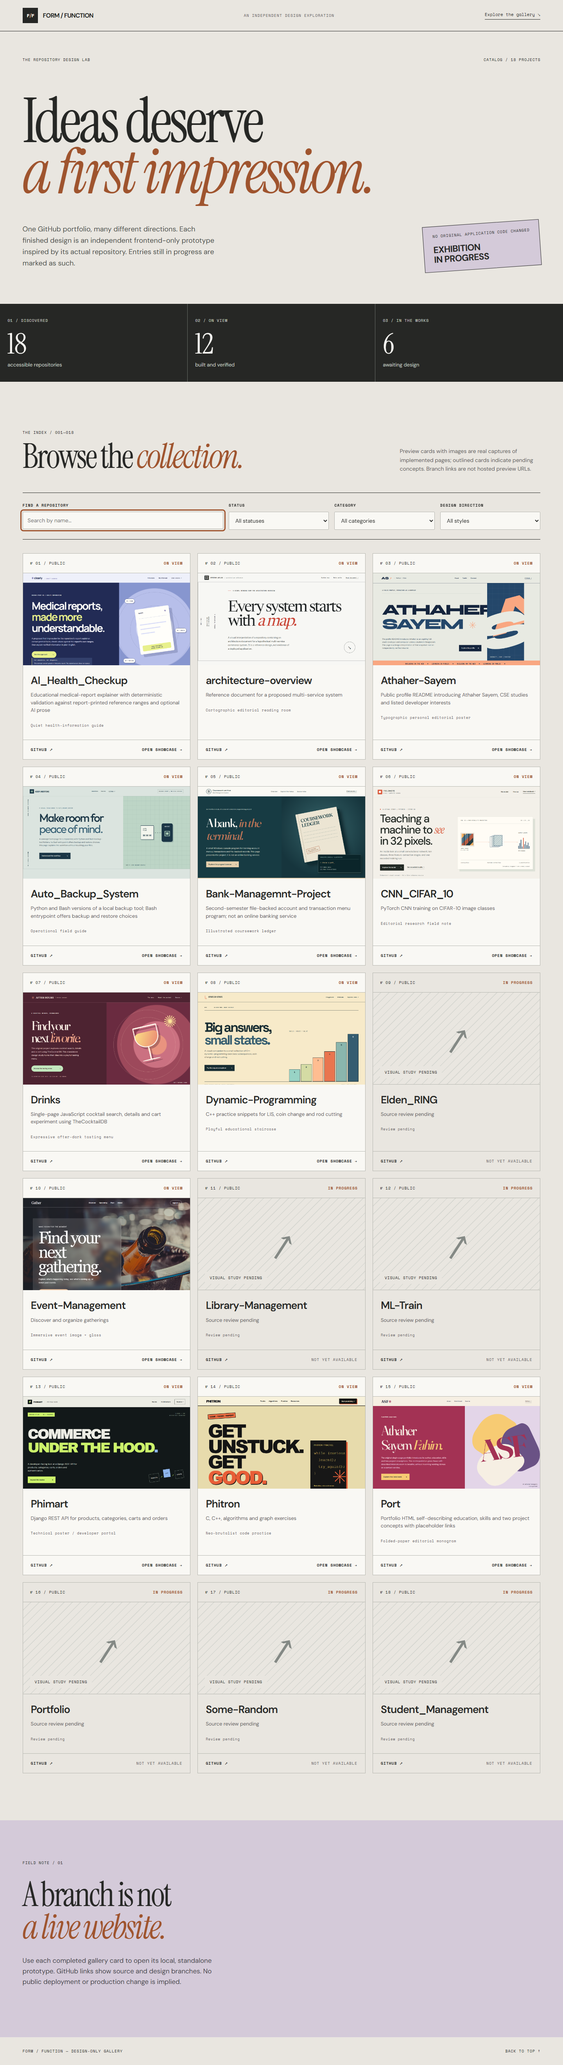
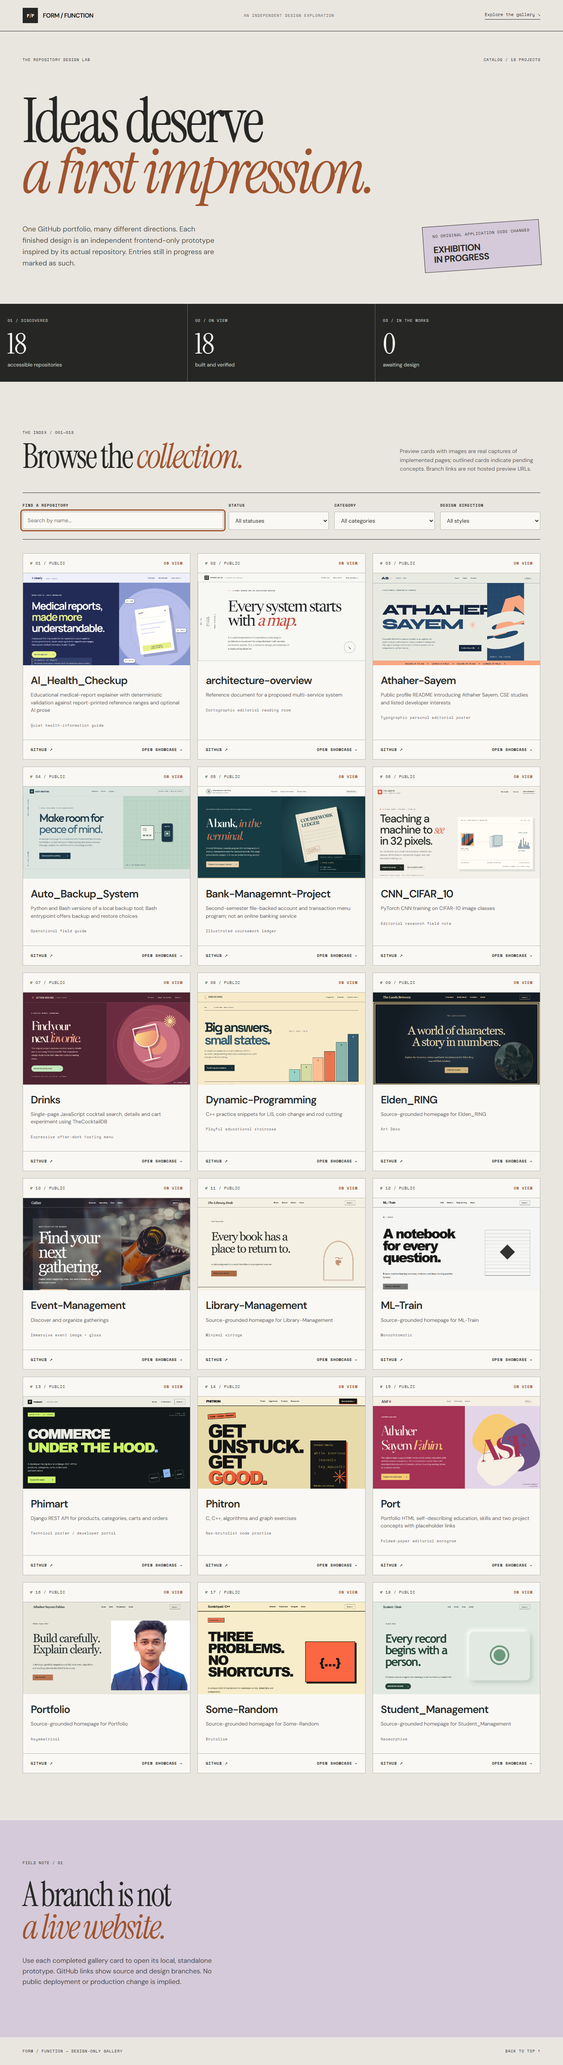
feat: complete remaining source-grounded homepages

diff --git a/showcase-design/data.js b/showcase-design/data.js
@@ -131,17 +131,17 @@ window.SHOWCASE_PROJECTS = [
     "name": "Elden_RING",
     "url": "https://github.com/Athaher-Sayem/Elden_RING",
     "visibility": "public",
-    "category": "Review pending",
-    "purpose": "Source review pending",
-    "style": null,
-    "palette": null,
-    "fonts": null,
-    "status": "pending",
-    "showcasePath": null,
-    "screenshot": null,
-    "branchUrl": null,
-    "commitUrl": null,
-    "limitation": null
+    "category": "Fantasy character database",
+    "purpose": "Explore the characters, reviews and battle simulations in this Elden Ring-inspired Flask database.",
+    "style": "Art Deco",
+    "palette": "#141c23 / #ecd9b2 / #ceb27d",
+    "fonts": "Georgia,serif",
+    "status": "completed",
+    "showcasePath": "showcases/Elden_RING/index.html",
+    "screenshot": "showcases/Elden_RING/assets/screenshots/desktop.png",
+    "branchUrl": "https://github.com/Athaher-Sayem/Elden_RING/tree/Shocase_design",
+    "commitUrl": "https://github.com/Athaher-Sayem/Elden_RING/commit/8a21c4bd4a39588c20230a1ca2b6b0415d5edee3",
+    "limitation": "Independent static design; source-linked actions require the running original project."
   },
   {
     "name": "Event-Management",
@@ -163,33 +163,33 @@ window.SHOWCASE_PROJECTS = [
     "name": "Library-Management",
     "url": "https://github.com/Athaher-Sayem/Library-Management",
     "visibility": "public",
-    "category": "Review pending",
-    "purpose": "Source review pending",
-    "style": null,
-    "palette": null,
-    "fonts": null,
-    "status": "pending",
-    "showcasePath": null,
-    "screenshot": null,
-    "branchUrl": null,
-    "commitUrl": null,
-    "limitation": null
+    "category": "Java console library",
+    "purpose": "A welcoming entry to a small Java library-management exercise.",
+    "style": "Minimal vintage",
+    "palette": "#f4f0e4 / #272a25 / #aa6b44",
+    "fonts": "Georgia,serif",
+    "status": "completed",
+    "showcasePath": "showcases/Library-Management/index.html",
+    "screenshot": "showcases/Library-Management/assets/screenshots/desktop.png",
+    "branchUrl": "https://github.com/Athaher-Sayem/Library-Management/tree/Shocase_design",
+    "commitUrl": "https://github.com/Athaher-Sayem/Library-Management/commit/aaef22481d9d72f20bb32687d105f87070173fb6",
+    "limitation": "Independent static design; source-linked actions require the running original project."
   },
   {
     "name": "ML-Train",
     "url": "https://github.com/Athaher-Sayem/ML-Train",
     "visibility": "public",
-    "category": "Review pending",
-    "purpose": "Source review pending",
-    "style": null,
-    "palette": null,
-    "fonts": null,
-    "status": "pending",
-    "showcasePath": null,
-    "screenshot": null,
-    "branchUrl": null,
-    "commitUrl": null,
-    "limitation": null
+    "category": "Machine-learning notebooks",
+    "purpose": "Browse machine-learning exercises, midterms and deep-learning practice by topic.",
+    "style": "Monochromatic",
+    "palette": "#f5f5f3 / #171817 / #737574",
+    "fonts": "Arial,sans-serif",
+    "status": "completed",
+    "showcasePath": "showcases/ML-Train/index.html",
+    "screenshot": "showcases/ML-Train/assets/screenshots/desktop.png",
+    "branchUrl": "https://github.com/Athaher-Sayem/ML-Train/tree/Shocase_design",
+    "commitUrl": "https://github.com/Athaher-Sayem/ML-Train/commit/dca03078a6eab1838275724848a47eba0cc58773",
+    "limitation": "Independent static design; source-linked actions require the running original project."
   },
   {
     "name": "Phimart",
@@ -243,48 +243,48 @@ window.SHOWCASE_PROJECTS = [
     "name": "Portfolio",
     "url": "https://github.com/Athaher-Sayem/Portfolio",
     "visibility": "public",
-    "category": "Review pending",
-    "purpose": "Source review pending",
-    "style": null,
-    "palette": null,
-    "fonts": null,
-    "status": "pending",
-    "showcasePath": null,
-    "screenshot": null,
-    "branchUrl": null,
-    "commitUrl": null,
-    "limitation": null
+    "category": "Developer portfolio",
+    "purpose": "A developer portfolio shaped around full-stack work, algorithms and teaching interests described in its source.",
+    "style": "Asymmetrical",
+    "palette": "#e8e6db / #242e2c / #b67450",
+    "fonts": "Georgia,serif",
+    "status": "completed",
+    "showcasePath": "showcases/Portfolio/index.html",
+    "screenshot": "showcases/Portfolio/assets/screenshots/desktop.png",
+    "branchUrl": "https://github.com/Athaher-Sayem/Portfolio/tree/Shocase_design",
+    "commitUrl": "https://github.com/Athaher-Sayem/Portfolio/commit/41316c912403c6e1e4eb690908d32d6df9814348",
+    "limitation": "Independent static design; source-linked actions require the running original project."
   },
   {
     "name": "Some-Random",
     "url": "https://github.com/Athaher-Sayem/Some-Random",
     "visibility": "public",
-    "category": "Review pending",
-    "purpose": "Source review pending",
-    "style": null,
-    "palette": null,
-    "fonts": null,
-    "status": "pending",
-    "showcasePath": null,
-    "screenshot": null,
-    "branchUrl": null,
-    "commitUrl": null,
-    "limitation": null
+    "category": "C++ practice snippets",
+    "purpose": "A compact shelf of standalone C++ exercises on lists, linked lists and comparisons.",
+    "style": "Brutalism",
+    "palette": "#f7edca / #161713 / #fa6742",
+    "fonts": "Arial,sans-serif",
+    "status": "completed",
+    "showcasePath": "showcases/Some-Random/index.html",
+    "screenshot": "showcases/Some-Random/assets/screenshots/desktop.png",
+    "branchUrl": "https://github.com/Athaher-Sayem/Some-Random/tree/Shocase_design",
+    "commitUrl": "https://github.com/Athaher-Sayem/Some-Random/commit/c9cf5291102f0aeddf65fa52432ac54420cf8c57",
+    "limitation": "Independent static design; source-linked actions require the running original project."
   },
   {
     "name": "Student_Management",
     "url": "https://github.com/Athaher-Sayem/Student_Management",
     "visibility": "public",
-    "category": "Review pending",
-    "purpose": "Source review pending",
-    "style": null,
-    "palette": null,
-    "fonts": null,
-    "status": "pending",
-    "showcasePath": null,
-    "screenshot": null,
-    "branchUrl": null,
-    "commitUrl": null,
-    "limitation": null
+    "category": "Python student console",
+    "purpose": "A Python console program for keeping a small in-memory student list.",
+    "style": "Neomorphism",
+    "palette": "#e2e9e2 / #254438 / #cce3d0",
+    "fonts": "Trebuchet MS,Arial,sans-serif",
+    "status": "completed",
+    "showcasePath": "showcases/Student_Management/index.html",
+    "screenshot": "showcases/Student_Management/assets/screenshots/desktop.png",
+    "branchUrl": "https://github.com/Athaher-Sayem/Student_Management/tree/Shocase_design",
+    "commitUrl": "https://github.com/Athaher-Sayem/Student_Management/commit/dce4900484b13266a1ed88aca84263bb4adaae9f",
+    "limitation": "Independent static design; source-linked actions require the running original project."
   }
 ];

diff --git a/showcase-design/showcases/Some-Random/styles.css b/showcase-design/showcases/Some-Random/styles.css
@@ -1,0 +1,5 @@
+:root{--bg:#f7edca;--ink:#161713;--accent:#fa6742;--surface:#fff9e5;--paper:#fff9e5;--font:Arial,sans-serif}
+*{box-sizing:border-box}html{scroll-behavior:smooth}body{margin:0;background:var(--bg);color:var(--ink);font-family:var(--font)}a{color:inherit}a:focus-visible,summary:focus-visible{outline:3px solid #ef8946;outline-offset:4px}img{max-width:100%}h1,h2,h3{overflow-wrap:break-word}p{line-height:1.7}.skip{position:absolute;left:15px;top:-100px;padding:12px;background:#fff;color:#111;z-index:10}.skip:focus{top:10px}.mast{display:flex;align-items:center;justify-content:space-between;gap:25px;padding:14px 6%;min-height:80px}.mast a{text-decoration:none}.brand{font-size:1.65rem;font-weight:700;letter-spacing:-.06em}.mast nav{display:flex;gap:clamp(15px,2vw,30px);font:600 .85rem Arial,sans-serif}.mast nav a:hover{text-decoration:underline;text-underline-offset:5px}.mast .top-action{border:1px solid currentColor;padding:10px 15px;white-space:nowrap;font:700 .8rem Arial,sans-serif}.intro-tag{font:700 .8rem Arial,sans-serif;opacity:.85}.hero-copy>p{font-size:1.15rem;max-width:38rem}.cta{display:inline-flex;gap:35px;padding:15px 20px;background:var(--accent);color:var(--ink);font:700 .9rem Arial,sans-serif;text-decoration:none;margin-top:20px}.topics a{color:inherit;text-decoration:none}.topics a:hover h3{text-decoration:underline;text-underline-offset:6px}.topics h3{line-height:1.1}.topics a p{max-width:32rem}.topics a span{font:700 .8rem Arial,sans-serif}.feature{padding:95px 6%}.feature h2{margin:0 0 30px}.feature p{line-height:1.8}.source{padding:80px 6%;background:var(--surface);color:var(--ink)}.source h2{font-size:clamp(2.4rem,4vw,4.3rem);margin:0 0 25px}.source p{max-width:45rem}.source a{display:inline-block;margin:20px 15px 0 0;color:inherit}.footer{background:#1e2425;color:#f5f5f0;padding:28px 6%;font:13px/1.6 Arial,sans-serif;display:flex;justify-content:space-between;gap:20px;flex-wrap:wrap}.footer a{color:inherit}@media(max-width:750px){.mast{flex-wrap:wrap;min-height:100px;padding:15px 5%;gap:10px}.mast nav{order:3;width:100%;overflow-x:auto;white-space:nowrap;border-top:1px solid currentColor;padding:12px 0 5px}.mast .top-action{font-size:.7rem}.hero,.feature{display:block!important;min-height:0!important;padding:70px 6%!important}.hero h1{font-size:clamp(3.2rem,12vw,6rem)!important}.hero-art{position:relative!important;inset:auto!important;width:100%!important;height:290px!important;min-height:290px!important;margin-top:40px!important;transform:none!important}.hero-art img{width:100%;height:100%;object-fit:cover}.topics{display:block!important;padding:40px 6%!important}.topics a{display:block!important;min-height:0!important;padding:25px!important;margin-bottom:15px}.topics a h3{font-size:2rem!important}.feature h2{font-size:clamp(2.7rem,9vw,5rem)!important}.source{padding:70px 6%}.footer{padding:25px 6%}}@media(max-width:360px){.hero h1{font-size:2.9rem!important}.brand{font-size:1.25rem}}@media(prefers-reduced-motion:reduce){html{scroll-behavior:auto}}
+.mast{border-bottom:4px solid var(--ink)}.hero{min-height:650px;background:var(--bg);display:grid;grid-template-columns:1.3fr .7fr;align-items:center;padding:65px 6%;gap:40px}.hero h1{font-size:clamp(4rem,8vw,9rem);line-height:.88;letter-spacing:-.09em;text-transform:uppercase;font-weight:900}.hero-art{background:var(--accent);border:4px solid var(--ink);box-shadow:12px 12px 0 var(--ink);min-height:350px;display:grid;place-items:center;overflow:hidden}.hero-art img{height:350px;width:100%;object-fit:cover;filter:grayscale(1)}.hero-art:empty:before{content:'{...}';font-size:clamp(4rem,7vw,8rem);font-weight:900}.hero .intro-tag{font-weight:900;background:var(--accent);padding:8px;border:3px solid var(--ink)}.topics{background:var(--paper)}.topics a{border-top:4px solid var(--ink);display:grid;grid-template-columns:1fr auto;gap:20px;padding:25px 6%;box-shadow:0 5px 0 var(--ink)}.topics a h3{font-size:clamp(1.6rem,3vw,3rem);text-transform:uppercase;margin:0}.topics a p{grid-column:1}.feature{background:var(--accent);display:grid;grid-template-columns:1fr 1fr;gap:30px}.feature h2{font-size:clamp(3rem,6vw,7rem);text-transform:uppercase;line-height:.9}.cta{border:3px solid var(--ink);box-shadow:5px 5px 0 var(--ink)}
+
+.feature{color:#161713}

diff --git a/showcase-design/showcases/Elden_RING/styles.css b/showcase-design/showcases/Elden_RING/styles.css
@@ -1,0 +1,5 @@
+:root{--bg:#141c23;--ink:#ecd9b2;--accent:#ceb27d;--surface:#263746;--paper:#f2e8d4;--font:Georgia,serif}
+*{box-sizing:border-box}html{scroll-behavior:smooth}body{margin:0;background:var(--bg);color:var(--ink);font-family:var(--font)}a{color:inherit}a:focus-visible,summary:focus-visible{outline:3px solid #ef8946;outline-offset:4px}img{max-width:100%}h1,h2,h3{overflow-wrap:break-word}p{line-height:1.7}.skip{position:absolute;left:15px;top:-100px;padding:12px;background:#fff;color:#111;z-index:10}.skip:focus{top:10px}.mast{display:flex;align-items:center;justify-content:space-between;gap:25px;padding:14px 6%;min-height:80px}.mast a{text-decoration:none}.brand{font-size:1.65rem;font-weight:700;letter-spacing:-.06em}.mast nav{display:flex;gap:clamp(15px,2vw,30px);font:600 .85rem Arial,sans-serif}.mast nav a:hover{text-decoration:underline;text-underline-offset:5px}.mast .top-action{border:1px solid currentColor;padding:10px 15px;white-space:nowrap;font:700 .8rem Arial,sans-serif}.intro-tag{font:700 .8rem Arial,sans-serif;opacity:.85}.hero-copy>p{font-size:1.15rem;max-width:38rem}.cta{display:inline-flex;gap:35px;padding:15px 20px;background:var(--accent);color:var(--ink);font:700 .9rem Arial,sans-serif;text-decoration:none;margin-top:20px}.topics a{color:inherit;text-decoration:none}.topics a:hover h3{text-decoration:underline;text-underline-offset:6px}.topics h3{line-height:1.1}.topics a p{max-width:32rem}.topics a span{font:700 .8rem Arial,sans-serif}.feature{padding:95px 6%}.feature h2{margin:0 0 30px}.feature p{line-height:1.8}.source{padding:80px 6%;background:var(--surface);color:var(--ink)}.source h2{font-size:clamp(2.4rem,4vw,4.3rem);margin:0 0 25px}.source p{max-width:45rem}.source a{display:inline-block;margin:20px 15px 0 0;color:inherit}.footer{background:#1e2425;color:#f5f5f0;padding:28px 6%;font:13px/1.6 Arial,sans-serif;display:flex;justify-content:space-between;gap:20px;flex-wrap:wrap}.footer a{color:inherit}@media(max-width:750px){.mast{flex-wrap:wrap;min-height:100px;padding:15px 5%;gap:10px}.mast nav{order:3;width:100%;overflow-x:auto;white-space:nowrap;border-top:1px solid currentColor;padding:12px 0 5px}.mast .top-action{font-size:.7rem}.hero,.feature{display:block!important;min-height:0!important;padding:70px 6%!important}.hero h1{font-size:clamp(3.2rem,12vw,6rem)!important}.hero-art{position:relative!important;inset:auto!important;width:100%!important;height:290px!important;min-height:290px!important;margin-top:40px!important;transform:none!important}.hero-art img{width:100%;height:100%;object-fit:cover}.topics{display:block!important;padding:40px 6%!important}.topics a{display:block!important;min-height:0!important;padding:25px!important;margin-bottom:15px}.topics a h3{font-size:2rem!important}.feature h2{font-size:clamp(2.7rem,9vw,5rem)!important}.source{padding:70px 6%}.footer{padding:25px 6%}}@media(max-width:360px){.hero h1{font-size:2.9rem!important}.brand{font-size:1.25rem}}@media(prefers-reduced-motion:reduce){html{scroll-behavior:auto}}
+.hero{min-height:690px;text-align:center;position:relative;display:grid;place-items:center;padding:90px 8%;border:20px double var(--accent);background:radial-gradient(circle at 50% 50%,var(--surface),var(--bg) 70%)}.hero-copy{position:relative;z-index:1;max-width:900px}.hero h1{font:normal clamp(3.7rem,7vw,8rem)/.98 Georgia,serif;letter-spacing:-.06em}.hero-art{position:absolute;width:min(30vw,330px);height:min(30vw,330px);right:3%;bottom:4%;opacity:.35;border:3px solid var(--accent);border-radius:50%;overflow:hidden}.hero-art img{width:100%;height:100%;object-fit:cover}.hero-art:empty:before{content:'✦';font-size:12rem;color:var(--accent)}.topics{display:grid;grid-template-columns:repeat(3,1fr);border-top:3px double var(--accent)}.topics a{padding:55px 35px;border-right:1px solid var(--accent)}.feature{display:grid;grid-template-columns:1fr 1fr;gap:7%;background:var(--surface);border-top:1px solid var(--accent);border-bottom:1px solid var(--accent)}.feature h2{font:normal clamp(3rem,5vw,6rem) Georgia,serif}.intro-tag{text-transform:uppercase;letter-spacing:.17em;font:12px Arial,sans-serif}
+
+.cta{color:#141c23}

diff --git a/showcase-design/showcases/Student_Management/styles.css b/showcase-design/showcases/Student_Management/styles.css
@@ -1,0 +1,5 @@
+:root{--bg:#e2e9e2;--ink:#254438;--accent:#cce3d0;--surface:#edf2ea;--paper:#254438;--font:Trebuchet MS,Arial,sans-serif}
+*{box-sizing:border-box}html{scroll-behavior:smooth}body{margin:0;background:var(--bg);color:var(--ink);font-family:var(--font)}a{color:inherit}a:focus-visible,summary:focus-visible{outline:3px solid #ef8946;outline-offset:4px}img{max-width:100%}h1,h2,h3{overflow-wrap:break-word}p{line-height:1.7}.skip{position:absolute;left:15px;top:-100px;padding:12px;background:#fff;color:#111;z-index:10}.skip:focus{top:10px}.mast{display:flex;align-items:center;justify-content:space-between;gap:25px;padding:14px 6%;min-height:80px}.mast a{text-decoration:none}.brand{font-size:1.65rem;font-weight:700;letter-spacing:-.06em}.mast nav{display:flex;gap:clamp(15px,2vw,30px);font:600 .85rem Arial,sans-serif}.mast nav a:hover{text-decoration:underline;text-underline-offset:5px}.mast .top-action{border:1px solid currentColor;padding:10px 15px;white-space:nowrap;font:700 .8rem Arial,sans-serif}.intro-tag{font:700 .8rem Arial,sans-serif;opacity:.85}.hero-copy>p{font-size:1.15rem;max-width:38rem}.cta{display:inline-flex;gap:35px;padding:15px 20px;background:var(--accent);color:var(--ink);font:700 .9rem Arial,sans-serif;text-decoration:none;margin-top:20px}.topics a{color:inherit;text-decoration:none}.topics a:hover h3{text-decoration:underline;text-underline-offset:6px}.topics h3{line-height:1.1}.topics a p{max-width:32rem}.topics a span{font:700 .8rem Arial,sans-serif}.feature{padding:95px 6%}.feature h2{margin:0 0 30px}.feature p{line-height:1.8}.source{padding:80px 6%;background:var(--surface);color:var(--ink)}.source h2{font-size:clamp(2.4rem,4vw,4.3rem);margin:0 0 25px}.source p{max-width:45rem}.source a{display:inline-block;margin:20px 15px 0 0;color:inherit}.footer{background:#1e2425;color:#f5f5f0;padding:28px 6%;font:13px/1.6 Arial,sans-serif;display:flex;justify-content:space-between;gap:20px;flex-wrap:wrap}.footer a{color:inherit}@media(max-width:750px){.mast{flex-wrap:wrap;min-height:100px;padding:15px 5%;gap:10px}.mast nav{order:3;width:100%;overflow-x:auto;white-space:nowrap;border-top:1px solid currentColor;padding:12px 0 5px}.mast .top-action{font-size:.7rem}.hero,.feature{display:block!important;min-height:0!important;padding:70px 6%!important}.hero h1{font-size:clamp(3.2rem,12vw,6rem)!important}.hero-art{position:relative!important;inset:auto!important;width:100%!important;height:290px!important;min-height:290px!important;margin-top:40px!important;transform:none!important}.hero-art img{width:100%;height:100%;object-fit:cover}.topics{display:block!important;padding:40px 6%!important}.topics a{display:block!important;min-height:0!important;padding:25px!important;margin-bottom:15px}.topics a h3{font-size:2rem!important}.feature h2{font-size:clamp(2.7rem,9vw,5rem)!important}.source{padding:70px 6%}.footer{padding:25px 6%}}@media(max-width:360px){.hero h1{font-size:2.9rem!important}.brand{font-size:1.25rem}}@media(prefers-reduced-motion:reduce){html{scroll-behavior:auto}}
+.mast{background:var(--bg)}.hero{padding:75px 6%;min-height:650px;display:grid;grid-template-columns:1fr .8fr;gap:7%;align-items:center}.hero h1{font-size:clamp(3.8rem,7vw,7rem);letter-spacing:-.07em;line-height:.99}.hero-copy{padding:20px}.hero-art{height:420px;border-radius:40px;background:var(--bg);box-shadow:18px 18px 35px #9daea281,-18px -18px 35px #fff;display:grid;place-items:center;overflow:hidden}.hero-art img{width:85%;height:85%;object-fit:cover;border-radius:34px}.hero-art:empty:before{content:'◉';color:#6c987c;font-size:15rem}.cta{border-radius:30px;background:var(--ink);color:white}.topics{display:grid;grid-template-columns:repeat(3,1fr);gap:25px;padding:100px 6%}.topics a{border-radius:25px;padding:35px;background:var(--bg);box-shadow:9px 9px 20px #afc0b4,-9px -9px 20px #fff}.topics h3{font-size:1.8rem}.feature{border-radius:30px;margin:20px 6% 80px;background:var(--paper);box-shadow:inset 8px 8px 20px #b1c4b7,inset -8px -8px 20px white}.feature h2{font-size:clamp(3rem,5vw,5.5rem)}
+
+.feature{background:var(--surface);color:var(--ink)}

diff --git a/showcase-design/showcases/Portfolio/styles.css b/showcase-design/showcases/Portfolio/styles.css
@@ -1,0 +1,3 @@
+:root{--bg:#e8e6db;--ink:#242e2c;--accent:#b67450;--surface:#f4f1e7;--paper:#f4f1e7;--font:Georgia,serif}
+*{box-sizing:border-box}html{scroll-behavior:smooth}body{margin:0;background:var(--bg);color:var(--ink);font-family:var(--font)}a{color:inherit}a:focus-visible,summary:focus-visible{outline:3px solid #ef8946;outline-offset:4px}img{max-width:100%}h1,h2,h3{overflow-wrap:break-word}p{line-height:1.7}.skip{position:absolute;left:15px;top:-100px;padding:12px;background:#fff;color:#111;z-index:10}.skip:focus{top:10px}.mast{display:flex;align-items:center;justify-content:space-between;gap:25px;padding:14px 6%;min-height:80px}.mast a{text-decoration:none}.brand{font-size:1.65rem;font-weight:700;letter-spacing:-.06em}.mast nav{display:flex;gap:clamp(15px,2vw,30px);font:600 .85rem Arial,sans-serif}.mast nav a:hover{text-decoration:underline;text-underline-offset:5px}.mast .top-action{border:1px solid currentColor;padding:10px 15px;white-space:nowrap;font:700 .8rem Arial,sans-serif}.intro-tag{font:700 .8rem Arial,sans-serif;opacity:.85}.hero-copy>p{font-size:1.15rem;max-width:38rem}.cta{display:inline-flex;gap:35px;padding:15px 20px;background:var(--accent);color:var(--ink);font:700 .9rem Arial,sans-serif;text-decoration:none;margin-top:20px}.topics a{color:inherit;text-decoration:none}.topics a:hover h3{text-decoration:underline;text-underline-offset:6px}.topics h3{line-height:1.1}.topics a p{max-width:32rem}.topics a span{font:700 .8rem Arial,sans-serif}.feature{padding:95px 6%}.feature h2{margin:0 0 30px}.feature p{line-height:1.8}.source{padding:80px 6%;background:var(--surface);color:var(--ink)}.source h2{font-size:clamp(2.4rem,4vw,4.3rem);margin:0 0 25px}.source p{max-width:45rem}.source a{display:inline-block;margin:20px 15px 0 0;color:inherit}.footer{background:#1e2425;color:#f5f5f0;padding:28px 6%;font:13px/1.6 Arial,sans-serif;display:flex;justify-content:space-between;gap:20px;flex-wrap:wrap}.footer a{color:inherit}@media(max-width:750px){.mast{flex-wrap:wrap;min-height:100px;padding:15px 5%;gap:10px}.mast nav{order:3;width:100%;overflow-x:auto;white-space:nowrap;border-top:1px solid currentColor;padding:12px 0 5px}.mast .top-action{font-size:.7rem}.hero,.feature{display:block!important;min-height:0!important;padding:70px 6%!important}.hero h1{font-size:clamp(3.2rem,12vw,6rem)!important}.hero-art{position:relative!important;inset:auto!important;width:100%!important;height:290px!important;min-height:290px!important;margin-top:40px!important;transform:none!important}.hero-art img{width:100%;height:100%;object-fit:cover}.topics{display:block!important;padding:40px 6%!important}.topics a{display:block!important;min-height:0!important;padding:25px!important;margin-bottom:15px}.topics a h3{font-size:2rem!important}.feature h2{font-size:clamp(2.7rem,9vw,5rem)!important}.source{padding:70px 6%}.footer{padding:25px 6%}}@media(max-width:360px){.hero h1{font-size:2.9rem!important}.brand{font-size:1.25rem}}@media(prefers-reduced-motion:reduce){html{scroll-behavior:auto}}
+.hero{min-height:670px;display:grid;grid-template-columns:1fr .9fr;align-items:center;position:relative;background:var(--bg)}.hero-copy{padding:95px 3% 95px 11%;position:relative;z-index:1}.hero h1{font-size:clamp(4rem,7vw,8rem);line-height:.95;font-weight:normal;letter-spacing:-.06em}.hero-art{height:600px;overflow:hidden;background:var(--accent);transform:translateY(35px)}.hero-art img{width:100%;height:100%;object-fit:cover}.hero-art:empty:before{content:'✳';font-size:12rem}.hero p{max-width:34rem}.topics{padding:115px 6%;display:grid;grid-template-columns:1fr 1fr;gap:30px}.topics a{padding:40px;background:var(--paper);min-height:220px}.topics a:first-child{grid-row:span 2;display:flex;flex-direction:column;justify-content:end;background:var(--accent);color:white}.topics a h3{font-size:clamp(1.8rem,3vw,3.4rem);font-weight:normal}.feature{background:var(--ink);color:var(--paper);padding:120px 9%;text-align:right}.feature h2{font-size:clamp(3rem,6vw,7rem);font-weight:normal}.feature p{margin-left:auto;max-width:34rem}

diff --git a/showcase-design/showcases/Library-Management/styles.css b/showcase-design/showcases/Library-Management/styles.css
@@ -1,0 +1,3 @@
+:root{--bg:#f4f0e4;--ink:#272a25;--accent:#aa6b44;--surface:#e4dece;--paper:#272a25;--font:Georgia,serif}
+*{box-sizing:border-box}html{scroll-behavior:smooth}body{margin:0;background:var(--bg);color:var(--ink);font-family:var(--font)}a{color:inherit}a:focus-visible,summary:focus-visible{outline:3px solid #ef8946;outline-offset:4px}img{max-width:100%}h1,h2,h3{overflow-wrap:break-word}p{line-height:1.7}.skip{position:absolute;left:15px;top:-100px;padding:12px;background:#fff;color:#111;z-index:10}.skip:focus{top:10px}.mast{display:flex;align-items:center;justify-content:space-between;gap:25px;padding:14px 6%;min-height:80px}.mast a{text-decoration:none}.brand{font-size:1.65rem;font-weight:700;letter-spacing:-.06em}.mast nav{display:flex;gap:clamp(15px,2vw,30px);font:600 .85rem Arial,sans-serif}.mast nav a:hover{text-decoration:underline;text-underline-offset:5px}.mast .top-action{border:1px solid currentColor;padding:10px 15px;white-space:nowrap;font:700 .8rem Arial,sans-serif}.intro-tag{font:700 .8rem Arial,sans-serif;opacity:.85}.hero-copy>p{font-size:1.15rem;max-width:38rem}.cta{display:inline-flex;gap:35px;padding:15px 20px;background:var(--accent);color:var(--ink);font:700 .9rem Arial,sans-serif;text-decoration:none;margin-top:20px}.topics a{color:inherit;text-decoration:none}.topics a:hover h3{text-decoration:underline;text-underline-offset:6px}.topics h3{line-height:1.1}.topics a p{max-width:32rem}.topics a span{font:700 .8rem Arial,sans-serif}.feature{padding:95px 6%}.feature h2{margin:0 0 30px}.feature p{line-height:1.8}.source{padding:80px 6%;background:var(--surface);color:var(--ink)}.source h2{font-size:clamp(2.4rem,4vw,4.3rem);margin:0 0 25px}.source p{max-width:45rem}.source a{display:inline-block;margin:20px 15px 0 0;color:inherit}.footer{background:#1e2425;color:#f5f5f0;padding:28px 6%;font:13px/1.6 Arial,sans-serif;display:flex;justify-content:space-between;gap:20px;flex-wrap:wrap}.footer a{color:inherit}@media(max-width:750px){.mast{flex-wrap:wrap;min-height:100px;padding:15px 5%;gap:10px}.mast nav{order:3;width:100%;overflow-x:auto;white-space:nowrap;border-top:1px solid currentColor;padding:12px 0 5px}.mast .top-action{font-size:.7rem}.hero,.feature{display:block!important;min-height:0!important;padding:70px 6%!important}.hero h1{font-size:clamp(3.2rem,12vw,6rem)!important}.hero-art{position:relative!important;inset:auto!important;width:100%!important;height:290px!important;min-height:290px!important;margin-top:40px!important;transform:none!important}.hero-art img{width:100%;height:100%;object-fit:cover}.topics{display:block!important;padding:40px 6%!important}.topics a{display:block!important;min-height:0!important;padding:25px!important;margin-bottom:15px}.topics a h3{font-size:2rem!important}.feature h2{font-size:clamp(2.7rem,9vw,5rem)!important}.source{padding:70px 6%}.footer{padding:25px 6%}}@media(max-width:360px){.hero h1{font-size:2.9rem!important}.brand{font-size:1.25rem}}@media(prefers-reduced-motion:reduce){html{scroll-behavior:auto}}
+.mast{border-bottom:1px solid #7c786d}.brand{font-style:italic}.hero{min-height:570px;padding:110px 8% 90px;border-bottom:5px double #514e48;position:relative}.hero-copy{max-width:870px}.hero h1{font:normal clamp(3.6rem,7vw,8rem)/1.04 Georgia,serif;letter-spacing:-.06em}.hero-art{position:absolute;right:7%;bottom:8%;width:18%;height:50%;border:8px double var(--accent);border-radius:50% 50% 5px 5px;display:grid;place-items:center;opacity:.7;overflow:hidden}.hero-art img{height:100%;width:100%;object-fit:cover}.hero-art:empty:before{content:'❦';font-size:6rem;color:var(--accent)}.hero p{max-width:43rem}.topics{padding:80px 6%;display:grid;grid-template-columns:repeat(3,1fr);gap:30px}.topics a{border-top:1px solid #726b5e;border-bottom:1px solid #726b5e;padding:30px 12px}.topics h3{font:normal clamp(1.7rem,2.5vw,3rem) Georgia,serif}.feature{background:var(--surface);padding:110px 10%}.feature h2{font:normal clamp(3rem,6vw,7rem) Georgia,serif;max-width:800px}.feature p{max-width:36rem}

diff --git a/showcase-design/showcases/ML-Train/styles.css b/showcase-design/showcases/ML-Train/styles.css
@@ -1,0 +1,3 @@
+:root{--bg:#f5f5f3;--ink:#171817;--accent:#737574;--surface:#e6e6e2;--paper:#171817;--font:Arial,sans-serif}
+*{box-sizing:border-box}html{scroll-behavior:smooth}body{margin:0;background:var(--bg);color:var(--ink);font-family:var(--font)}a{color:inherit}a:focus-visible,summary:focus-visible{outline:3px solid #ef8946;outline-offset:4px}img{max-width:100%}h1,h2,h3{overflow-wrap:break-word}p{line-height:1.7}.skip{position:absolute;left:15px;top:-100px;padding:12px;background:#fff;color:#111;z-index:10}.skip:focus{top:10px}.mast{display:flex;align-items:center;justify-content:space-between;gap:25px;padding:14px 6%;min-height:80px}.mast a{text-decoration:none}.brand{font-size:1.65rem;font-weight:700;letter-spacing:-.06em}.mast nav{display:flex;gap:clamp(15px,2vw,30px);font:600 .85rem Arial,sans-serif}.mast nav a:hover{text-decoration:underline;text-underline-offset:5px}.mast .top-action{border:1px solid currentColor;padding:10px 15px;white-space:nowrap;font:700 .8rem Arial,sans-serif}.intro-tag{font:700 .8rem Arial,sans-serif;opacity:.85}.hero-copy>p{font-size:1.15rem;max-width:38rem}.cta{display:inline-flex;gap:35px;padding:15px 20px;background:var(--accent);color:var(--ink);font:700 .9rem Arial,sans-serif;text-decoration:none;margin-top:20px}.topics a{color:inherit;text-decoration:none}.topics a:hover h3{text-decoration:underline;text-underline-offset:6px}.topics h3{line-height:1.1}.topics a p{max-width:32rem}.topics a span{font:700 .8rem Arial,sans-serif}.feature{padding:95px 6%}.feature h2{margin:0 0 30px}.feature p{line-height:1.8}.source{padding:80px 6%;background:var(--surface);color:var(--ink)}.source h2{font-size:clamp(2.4rem,4vw,4.3rem);margin:0 0 25px}.source p{max-width:45rem}.source a{display:inline-block;margin:20px 15px 0 0;color:inherit}.footer{background:#1e2425;color:#f5f5f0;padding:28px 6%;font:13px/1.6 Arial,sans-serif;display:flex;justify-content:space-between;gap:20px;flex-wrap:wrap}.footer a{color:inherit}@media(max-width:750px){.mast{flex-wrap:wrap;min-height:100px;padding:15px 5%;gap:10px}.mast nav{order:3;width:100%;overflow-x:auto;white-space:nowrap;border-top:1px solid currentColor;padding:12px 0 5px}.mast .top-action{font-size:.7rem}.hero,.feature{display:block!important;min-height:0!important;padding:70px 6%!important}.hero h1{font-size:clamp(3.2rem,12vw,6rem)!important}.hero-art{position:relative!important;inset:auto!important;width:100%!important;height:290px!important;min-height:290px!important;margin-top:40px!important;transform:none!important}.hero-art img{width:100%;height:100%;object-fit:cover}.topics{display:block!important;padding:40px 6%!important}.topics a{display:block!important;min-height:0!important;padding:25px!important;margin-bottom:15px}.topics a h3{font-size:2rem!important}.feature h2{font-size:clamp(2.7rem,9vw,5rem)!important}.source{padding:70px 6%}.footer{padding:25px 6%}}@media(max-width:360px){.hero h1{font-size:2.9rem!important}.brand{font-size:1.25rem}}@media(prefers-reduced-motion:reduce){html{scroll-behavior:auto}}
+.mast{border-bottom:1px solid #222}.hero{min-height:630px;display:grid;grid-template-columns:2fr 1fr;padding:75px 6% 95px;align-items:center;gap:8%;border-bottom:1px solid #222}.hero h1{font-size:clamp(4rem,8vw,9rem);line-height:.89;letter-spacing:-.085em;font-weight:800}.hero-art{height:390px;border:1px solid #333;background:repeating-linear-gradient(0deg,transparent 0 29px,#777 30px);display:grid;place-items:center;filter:grayscale(1);overflow:hidden}.hero-art img{width:100%;height:100%;object-fit:cover}.hero-art:empty:before{content:'◆';font-size:12rem;color:#333}.intro-tag{letter-spacing:.15em;text-transform:uppercase}.topics a{display:grid;grid-template-columns:1fr 1.4fr;gap:25px;border-bottom:1px solid #333;padding:26px 6%}.topics h3{font-size:clamp(1.5rem,3vw,3rem);margin:0}.topics p{margin:0}.feature{padding:120px 6%;background:#242424;color:#fff}.feature h2{font-size:clamp(3rem,6vw,7rem);line-height:.95;max-width:850px}.feature p{max-width:36rem}

diff --git a/showcase-design/showcases/Elden_RING/index.html b/showcase-design/showcases/Elden_RING/index.html
@@ -1,0 +1,1 @@
+<!doctype html><html lang="en"><head><meta charset="utf-8"><meta name="viewport" content="width=device-width,initial-scale=1"><meta name="description" content="Explore the characters, reviews and battle simulations in this Elden Ring-inspired Flask database."><title>The Lands Between — A world of characters. A story in numbers.</title><link rel="stylesheet" href="styles.css"></head><body><a class="skip" href="#main">Skip to content</a><header class="mast" id="top"><a class="brand" href="#top">The Lands Between</a><nav aria-label="Main navigation"><a href="#topic-0">Characters</a><a href="#topic-1">Battle theory</a><a href="#topic-2">Analytics</a><a href="#about">About</a></nav><a class="top-action" href="https://github.com/Athaher-Sayem/Elden_RING/tree/Shocase_design" target="_blank" rel="noopener noreferrer">Source ↗</a></header><main id="main"><section class="hero"><div class="hero-copy"><span class="intro-tag">The Lands Between</span><h1>A world of characters. A story in numbers.</h1><p>Explore the characters, reviews and battle simulations in this Elden Ring-inspired Flask database.</p><a class="cta" href="#browse">Enter the archive <span aria-hidden="true">↘</span></a></div><div class="hero-art" aria-label="Source image"><img src="assets/feature.jpg" alt="Illustration or photograph from the original Elden_RING repository"></div></section><section id="browse" class="topics" aria-label="Explore topics"><a id="topic-0" href="https://github.com/Athaher-Sayem/Elden_RING/blob/Shocase_design/templates/index.html" target="_blank" rel="noopener noreferrer"><h3>Characters</h3><p>Browse the character database and individual profiles.</p><span>Explore source ↗</span></a><a id="topic-1" href="https://github.com/Athaher-Sayem/Elden_RING/blob/Shocase_design/templates/game_theory.html" target="_blank" rel="noopener noreferrer"><h3>Battle theory</h3><p>Compare imagined matchups in the source application.</p><span>Explore source ↗</span></a><a id="topic-2" href="https://github.com/Athaher-Sayem/Elden_RING/blob/Shocase_design/templates/analytics.html" target="_blank" rel="noopener noreferrer"><h3>Analytics</h3><p>Inspect the source app’s analysis screens.</p><span>Explore source ↗</span></a></section><section id="about" class="feature"><h2>A living character archive.</h2><p>The repository includes seeded demo characters and database-backed views; this standalone front page does not load real records or simulate battles.</p></section><section class="source"><h2>Inside the archive</h2><p>The project is fan-made and not affiliated with the game publisher.</p><a href="https://github.com/Athaher-Sayem/Elden_RING/tree/Shocase_design" target="_blank" rel="noopener noreferrer">Open the source repository ↗</a></section></main><footer class="footer"><span>Independent design preview for Elden_RING. No unsupported service runs here.</span><a href="#top">Back to top ↑</a></footer></body></html>

diff --git a/showcase-design/showcases/Portfolio/index.html b/showcase-design/showcases/Portfolio/index.html
@@ -1,0 +1,1 @@
+<!doctype html><html lang="en"><head><meta charset="utf-8"><meta name="viewport" content="width=device-width,initial-scale=1"><meta name="description" content="A developer portfolio shaped around full-stack work, algorithms and teaching interests described in its source."><title>Athaher Sayem Fahim — Build carefully. Explain clearly.</title><link rel="stylesheet" href="styles.css"></head><body><a class="skip" href="#main">Skip to content</a><header class="mast" id="top"><a class="brand" href="#top">Athaher Sayem Fahim</a><nav aria-label="Main navigation"><a href="#topic-0">About</a><a href="#topic-1">Work</a><a href="#topic-2">Perspective</a><a href="#about">About</a></nav><a class="top-action" href="https://github.com/Athaher-Sayem/Portfolio/tree/Shocase_design" target="_blank" rel="noopener noreferrer">Source ↗</a></header><main id="main"><section class="hero"><div class="hero-copy"><span class="intro-tag">Athaher Sayem Fahim</span><h1>Build carefully. Explain clearly.</h1><p>A developer portfolio shaped around full-stack work, algorithms and teaching interests described in its source.</p><a class="cta" href="#browse">See the work <span aria-hidden="true">↘</span></a></div><div class="hero-art" aria-label="Source image"><img src="assets/feature.jpg" alt="Illustration or photograph from the original Portfolio repository"></div></section><section id="browse" class="topics" aria-label="Explore topics"><a id="topic-0" href="https://github.com/Athaher-Sayem/Portfolio/blob/Shocase_design/app.py" target="_blank" rel="noopener noreferrer"><h3>About</h3><p>Read the author’s own introduction and education.</p><span>Explore source ↗</span></a><a id="topic-1" href="https://github.com/Athaher-Sayem/Portfolio/blob/Shocase_design/app.py" target="_blank" rel="noopener noreferrer"><h3>Work</h3><p>Explore projects in the Flask portfolio.</p><span>Explore source ↗</span></a><a id="topic-2" href="https://github.com/Athaher-Sayem/Portfolio/blob/Shocase_design/app.py" target="_blank" rel="noopener noreferrer"><h3>Perspective</h3><p>See the source’s goals for engineering and education.</p><span>Explore source ↗</span></a></section><section id="about" class="feature"><h2>A builder who likes to teach.</h2><p>Roles, academic details and professional goals are self-descriptions in the repository, not independently verified current claims.</p></section><section class="source"><h2>The developer portfolio</h2><p>No résumé download or contact request is sent from this standalone page.</p><a href="https://github.com/Athaher-Sayem/Portfolio/tree/Shocase_design" target="_blank" rel="noopener noreferrer">Open the source repository ↗</a></section></main><footer class="footer"><span>Independent design preview for Portfolio. No unsupported service runs here.</span><a href="#top">Back to top ↑</a></footer></body></html>

diff --git a/showcase-design/showcases/Library-Management/index.html b/showcase-design/showcases/Library-Management/index.html
@@ -1,0 +1,1 @@
+<!doctype html><html lang="en"><head><meta charset="utf-8"><meta name="viewport" content="width=device-width,initial-scale=1"><meta name="description" content="A welcoming entry to a small Java library-management exercise."><title>The Library Desk — Every book has a place to return to.</title><link rel="stylesheet" href="styles.css"></head><body><a class="skip" href="#main">Skip to content</a><header class="mast" id="top"><a class="brand" href="#top">The Library Desk</a><nav aria-label="Main navigation"><a href="#topic-0">Books</a><a href="#topic-1">Borrow</a><a href="#topic-2">Return</a><a href="#about">About</a></nav><a class="top-action" href="https://github.com/Athaher-Sayem/Library-Management/tree/Shocase_design" target="_blank" rel="noopener noreferrer">Source ↗</a></header><main id="main"><section class="hero"><div class="hero-copy"><span class="intro-tag">The Library Desk</span><h1>Every book has a place to return to.</h1><p>A welcoming entry to a small Java library-management exercise.</p><a class="cta" href="#browse">Browse the shelves <span aria-hidden="true">↘</span></a></div><div class="hero-art" aria-label="Abstract decorative illustration"></div></section><section id="browse" class="topics" aria-label="Explore topics"><a id="topic-0" href="https://github.com/Athaher-Sayem/Library-Management/blob/Shocase_design/README.md" target="_blank" rel="noopener noreferrer"><h3>Books</h3><p>Add and view books from the menu-driven Java program.</p><span>Explore source ↗</span></a><a id="topic-1" href="https://github.com/Athaher-Sayem/Library-Management/blob/Shocase_design/README.md" target="_blank" rel="noopener noreferrer"><h3>Borrow</h3><p>Issue a book to a student in the console application.</p><span>Explore source ↗</span></a><a id="topic-2" href="https://github.com/Athaher-Sayem/Library-Management/blob/Shocase_design/README.md" target="_blank" rel="noopener noreferrer"><h3>Return</h3><p>Return a book and see its available or issued status.</p><span>Explore source ↗</span></a></section><section id="about" class="feature"><h2>A simple system for shared shelves.</h2><p>The repository stores its catalog in an in-memory ArrayList. This static page does not hold a catalog or record loans.</p></section><section class="source"><h2>Run the Java library program</h2><p>Open the console program for real book-management actions.</p><a href="https://github.com/Athaher-Sayem/Library-Management/tree/Shocase_design" target="_blank" rel="noopener noreferrer">Open the source repository ↗</a></section></main><footer class="footer"><span>Independent design preview for Library-Management. No unsupported service runs here.</span><a href="#top">Back to top ↑</a></footer></body></html>

diff --git a/showcase-design/showcases/Some-Random/index.html b/showcase-design/showcases/Some-Random/index.html
@@ -1,0 +1,1 @@
+<!doctype html><html lang="en"><head><meta charset="utf-8"><meta name="viewport" content="width=device-width,initial-scale=1"><meta name="description" content="A compact shelf of standalone C++ exercises on lists, linked lists and comparisons."><title>Scratchpad / C++ — Three problems. No shortcuts.</title><link rel="stylesheet" href="styles.css"></head><body><a class="skip" href="#main">Skip to content</a><header class="mast" id="top"><a class="brand" href="#top">Scratchpad / C++</a><nav aria-label="Main navigation"><a href="#topic-0">Greatest</a><a href="#topic-1">Palindrome</a><a href="#topic-2">Navigate</a><a href="#about">About</a></nav><a class="top-action" href="https://github.com/Athaher-Sayem/Some-Random/tree/Shocase_design" target="_blank" rel="noopener noreferrer">Source ↗</a></header><main id="main"><section class="hero"><div class="hero-copy"><span class="intro-tag">Scratchpad / C++</span><h1>Three problems. No shortcuts.</h1><p>A compact shelf of standalone C++ exercises on lists, linked lists and comparisons.</p><a class="cta" href="#browse">Pick a problem <span aria-hidden="true">↘</span></a></div><div class="hero-art" aria-label="Abstract decorative illustration"></div></section><section id="browse" class="topics" aria-label="Explore topics"><a id="topic-0" href="https://github.com/Athaher-Sayem/Some-Random/blob/Shocase_design/class%20greater" target="_blank" rel="noopener noreferrer"><h3>Greatest</h3><p>Compare student records by marks and ID.</p><span>Explore source ↗</span></a><a id="topic-1" href="https://github.com/Athaher-Sayem/Some-Random/blob/Shocase_design/linklist%20palindrom" target="_blank" rel="noopener noreferrer"><h3>Palindrome</h3><p>Check a doubly linked list from both ends.</p><span>Explore source ↗</span></a><a id="topic-2" href="https://github.com/Athaher-Sayem/Some-Random/blob/Shocase_design/list%20find%20next%20and%20prev" target="_blank" rel="noopener noreferrer"><h3>Navigate</h3><p>Walk next and previous through a list.</p><span>Explore source ↗</span></a></section><section id="about" class="feature"><h2>Open the code. Work the problem.</h2><p>These source files are console programs with no web service, judge or submitted-solution system.</p></section><section class="source"><h2>Get the original solutions</h2><p>This homepage does not compile or execute code.</p><a href="https://github.com/Athaher-Sayem/Some-Random/tree/Shocase_design" target="_blank" rel="noopener noreferrer">Open the source repository ↗</a></section></main><footer class="footer"><span>Independent design preview for Some-Random. No unsupported service runs here.</span><a href="#top">Back to top ↑</a></footer></body></html>

diff --git a/showcase-design/showcases/Student_Management/index.html b/showcase-design/showcases/Student_Management/index.html
@@ -1,0 +1,1 @@
+<!doctype html><html lang="en"><head><meta charset="utf-8"><meta name="viewport" content="width=device-width,initial-scale=1"><meta name="description" content="A Python console program for keeping a small in-memory student list."><title>Student / Desk — Every record begins with a person.</title><link rel="stylesheet" href="styles.css"></head><body><a class="skip" href="#main">Skip to content</a><header class="mast" id="top"><a class="brand" href="#top">Student / Desk</a><nav aria-label="Main navigation"><a href="#topic-0">Add</a><a href="#topic-1">Enroll</a><a href="#topic-2">Drop</a><a href="#about">About</a></nav><a class="top-action" href="https://github.com/Athaher-Sayem/Student_Management/tree/Shocase_design" target="_blank" rel="noopener noreferrer">Source ↗</a></header><main id="main"><section class="hero"><div class="hero-copy"><span class="intro-tag">Student / Desk</span><h1>Every record begins with a person.</h1><p>A Python console program for keeping a small in-memory student list.</p><a class="cta" href="#browse">Explore the records <span aria-hidden="true">↘</span></a></div><div class="hero-art" aria-label="Abstract decorative illustration"></div></section><section id="browse" class="topics" aria-label="Explore topics"><a id="topic-0" href="https://github.com/Athaher-Sayem/Student_Management/blob/Shocase_design/Student.py" target="_blank" rel="noopener noreferrer"><h3>Add</h3><p>Create a student record in the menu-driven program.</p><span>Explore source ↗</span></a><a id="topic-1" href="https://github.com/Athaher-Sayem/Student_Management/blob/Shocase_design/Student.py" target="_blank" rel="noopener noreferrer"><h3>Enroll</h3><p>Set a student’s enrollment status.</p><span>Explore source ↗</span></a><a id="topic-2" href="https://github.com/Athaher-Sayem/Student_Management/blob/Shocase_design/Student.py" target="_blank" rel="noopener noreferrer"><h3>Drop</h3><p>Update a student’s status or view details.</p><span>Explore source ↗</span></a></section><section id="about" class="feature"><h2>Keep the essentials in view.</h2><p>Student records only live in process memory; there is no database, account or online registration in the source.</p></section><section class="source"><h2>Run the student console</h2><p>No student information is collected in this design preview.</p><a href="https://github.com/Athaher-Sayem/Student_Management/tree/Shocase_design" target="_blank" rel="noopener noreferrer">Open the source repository ↗</a></section></main><footer class="footer"><span>Independent design preview for Student_Management. No unsupported service runs here.</span><a href="#top">Back to top ↑</a></footer></body></html>
